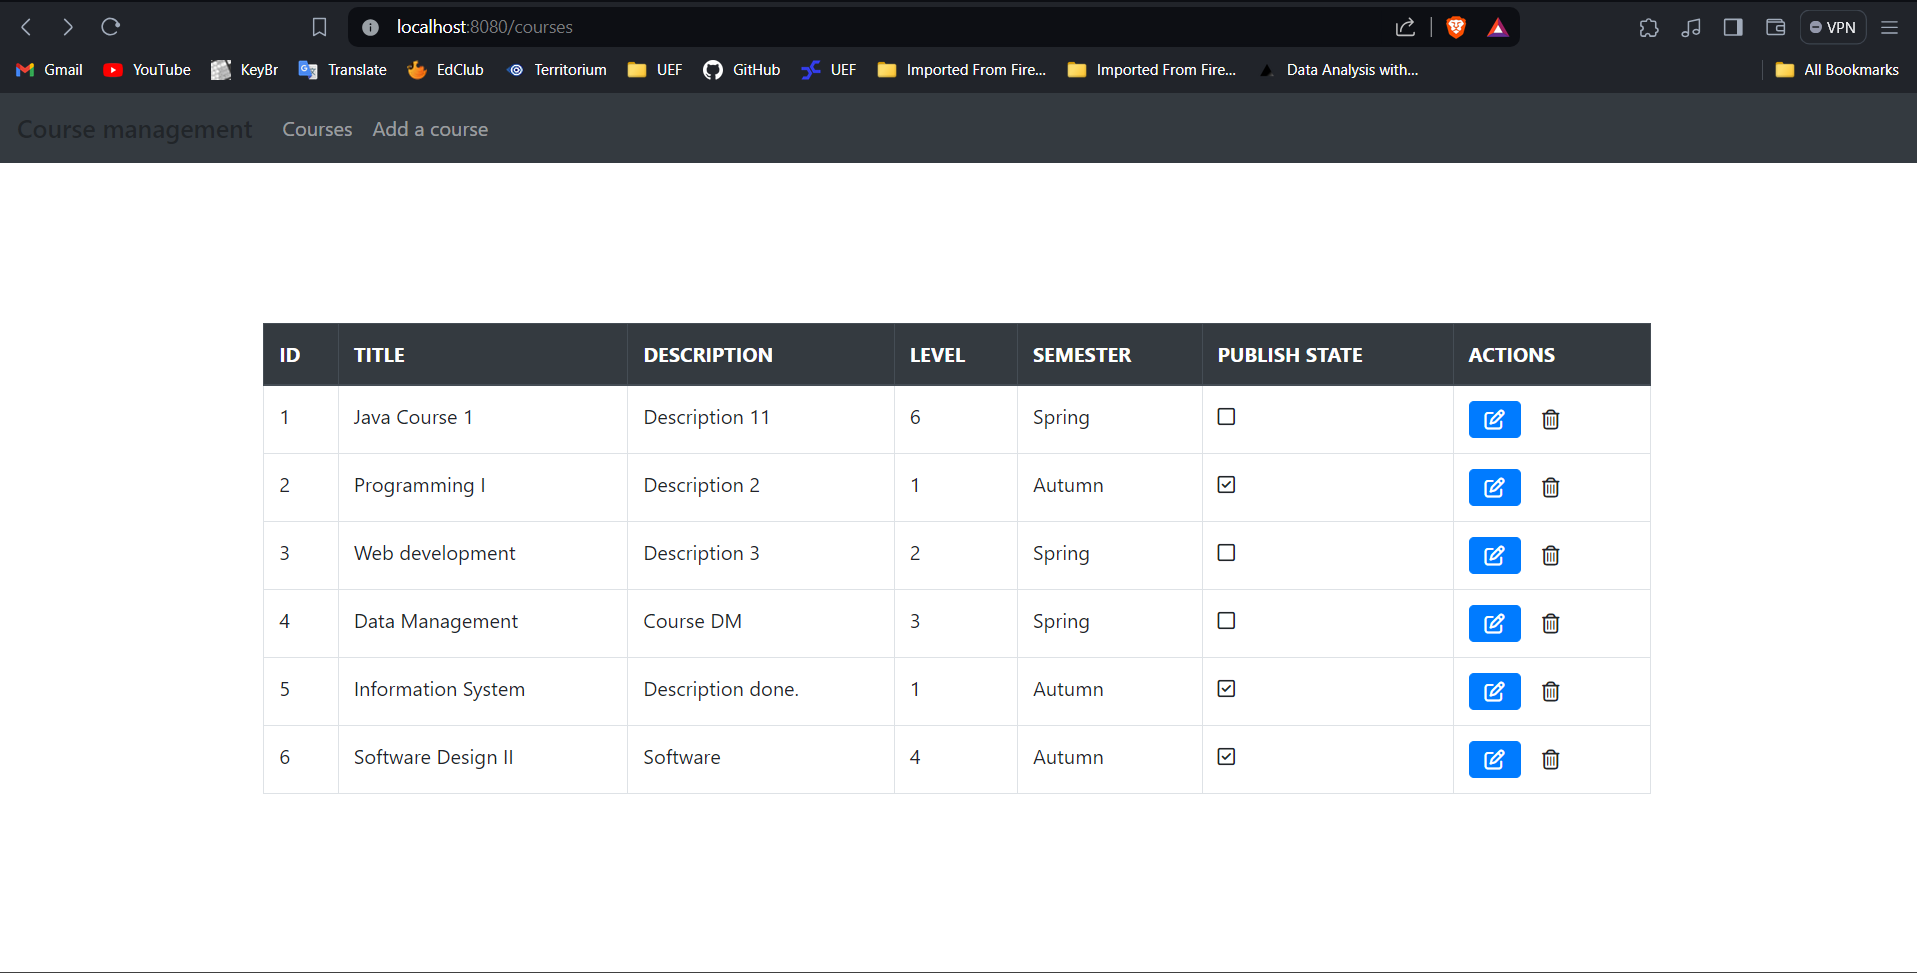
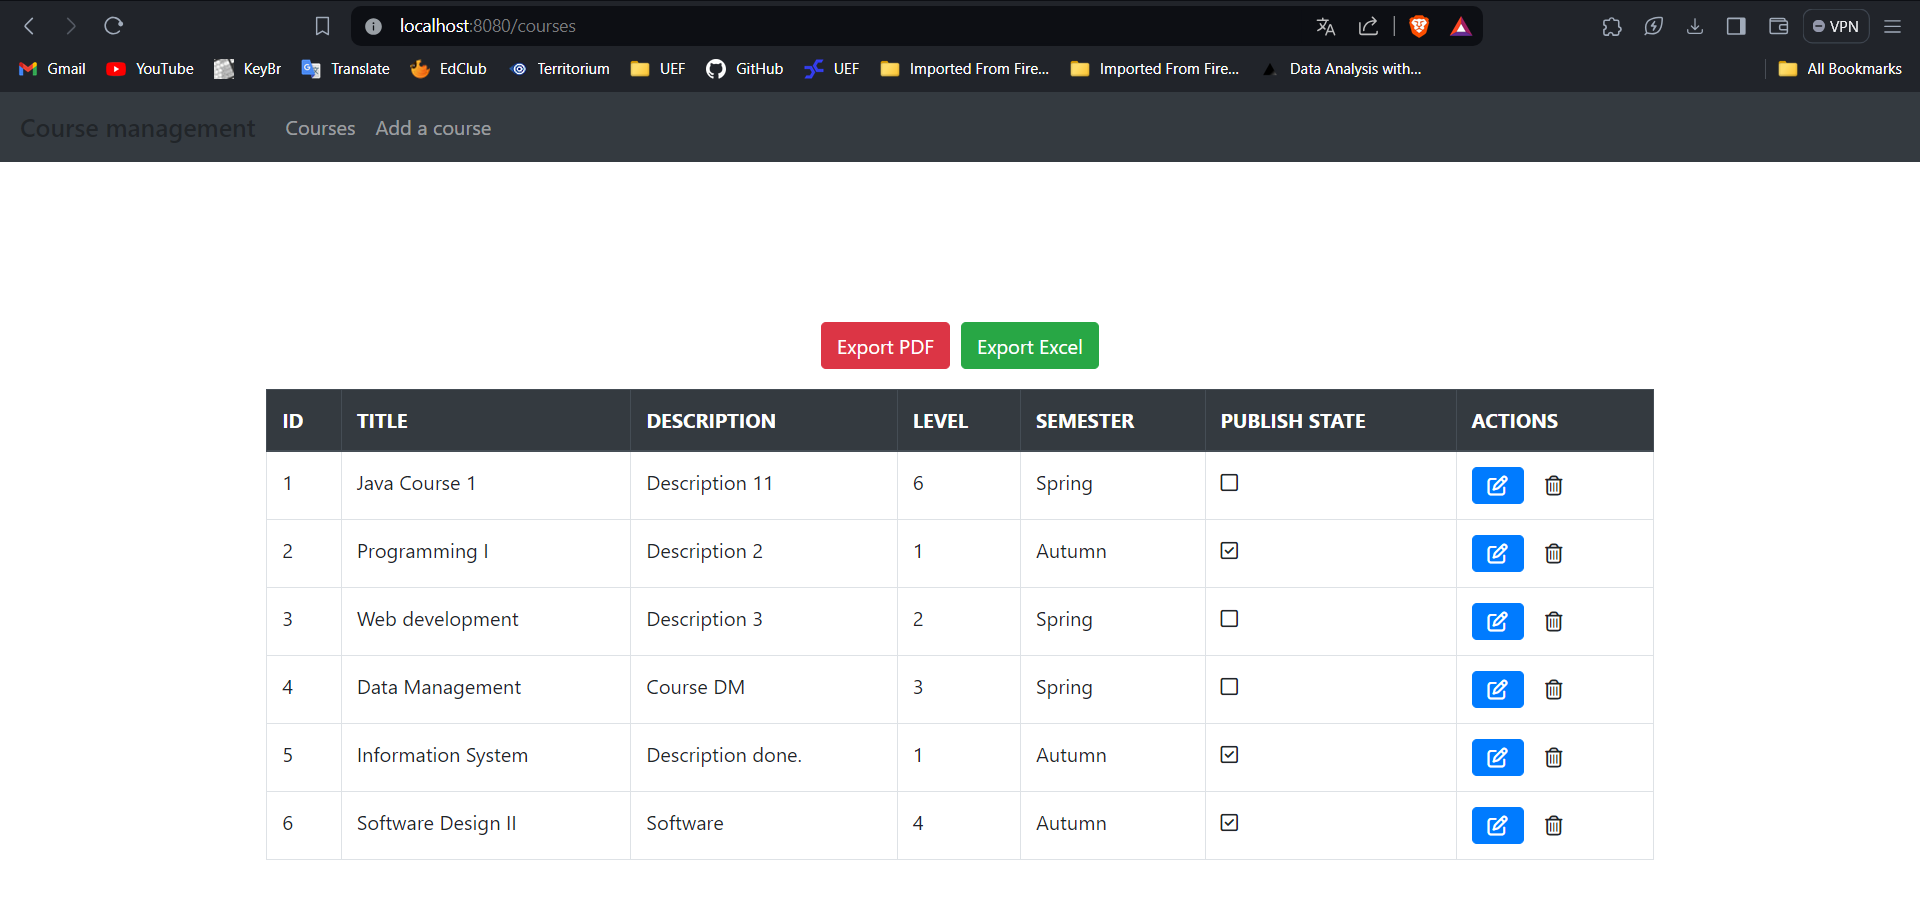
Update README.md

diff --git a/README.md b/README.md
@@ -4,18 +4,17 @@
 <tr>
 <td>
     SpringBoot Web application that holds courses data, using Spring MVC architecture.
-    
 </td>
 </tr>
 </table>
 
 ## Implementation
-* Spring data JPA
-* CRUD operations
-* Local usage of Object Relational Mapping (ORM)
-* Lombok
-* Validations
-
+* Spring data JPA.
+* CRUD operations.
+* Object Relational Mapping (ORM).
+* Lombok.
+* Validations.
+* Report Generation Excel / PDF through dependencies' usage.
 
 ---
 ## Site
@@ -29,6 +28,12 @@
 ### Editing an existing course form.
 ![](/images/editingCourse.png)
 
+### Excel Report.
+![](images/excelExport.png)
+
+
+### PDF Report.
+![](images/pdfExport.png)
 
 ---
 ## Built with
@@ -39,5 +44,4 @@
 
 ## To-do
 - Add Features as pagination, filtering, searching.
-- Create report to be exported to Excel and PDF
 
